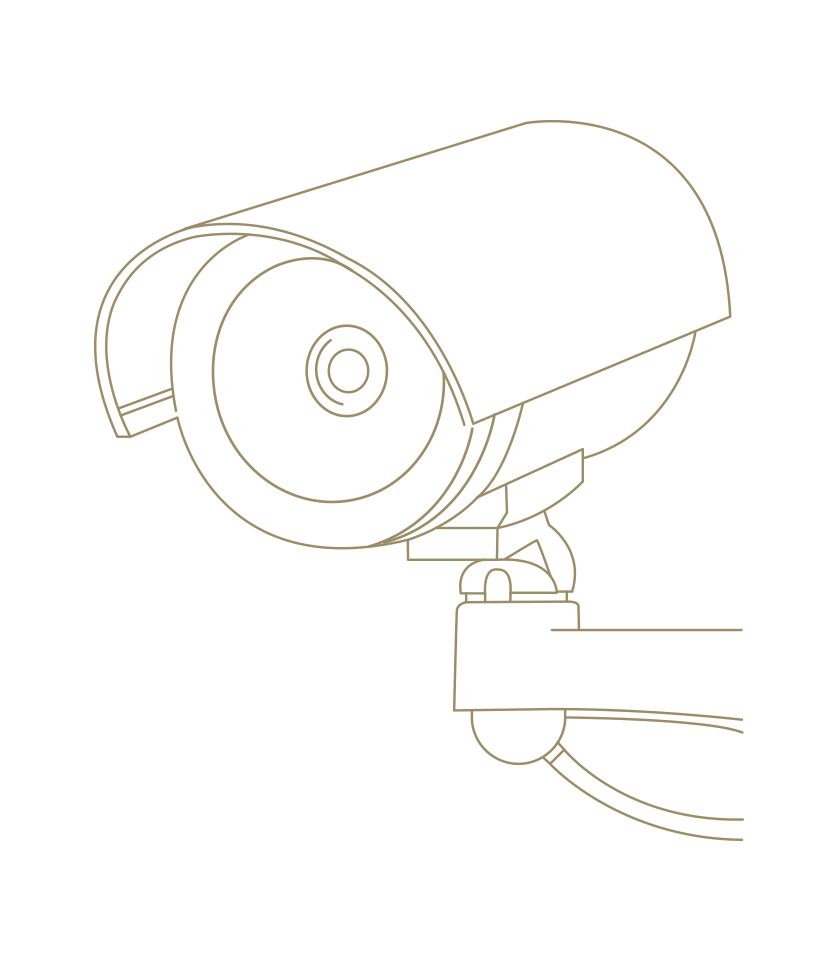
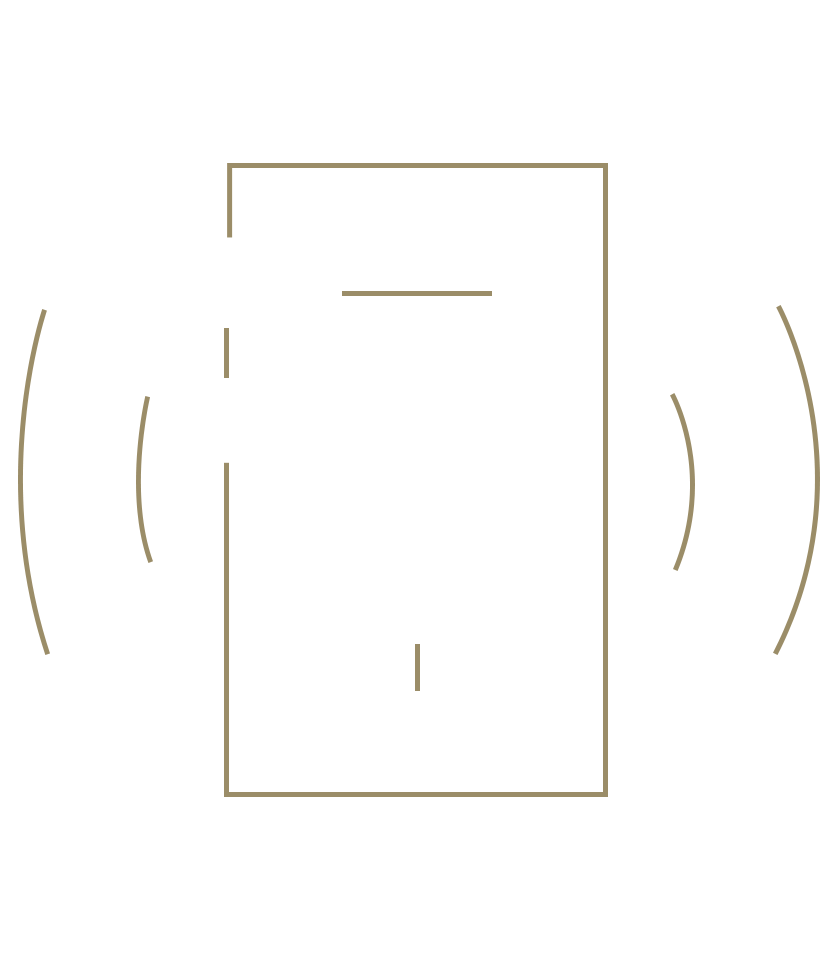
Corrige fichas de proyectos y filtros móviles

diff --git a/proyecto-ficha.js b/proyecto-ficha.js
@@ -378,10 +378,12 @@
       (p.comunesLead?'<div class="cb-desc"><p>'+p.comunesLead+'</p></div>':'');
     cg.parentElement.insertBefore(band, cg);
     const stB=document.createElement('style');
-    stB.textContent='.comunes-band{background:var(--dark);color:#fff;display:grid;grid-template-columns:1fr 1fr;gap:40px;align-items:center;padding:52px 44px;border-radius:18px;margin-top:10px}.comunes-band h2{font-family:\'Sora\';font-weight:800;font-size:clamp(24px,3vw,34px);letter-spacing:.02em;text-transform:uppercase;line-height:1.15;color:#fff}.comunes-band .cb-desc p{font-size:15.5px;line-height:1.7;color:rgba(255,255,255,.82)}@media(max-width:860px){.comunes-band{grid-template-columns:1fr;gap:18px;padding:34px 24px;text-align:center;border-radius:0;margin-left:-26px;margin-right:-26px;width:calc(100% + 52px)}}';
+    stB.textContent='.comunes-band{background:var(--dark);color:#fff;display:grid;grid-template-columns:1fr 1fr;gap:40px;align-items:center;padding:52px 44px;border-radius:18px;margin-top:10px}.comunes-band h2{font-family:\'Sora\';font-weight:800;font-size:clamp(24px,3vw,34px);letter-spacing:.02em;text-transform:uppercase;line-height:1.15;color:#fff}.comunes-band .cb-desc p{font-size:15.5px;line-height:1.7;color:rgba(255,255,255,.82)}@media(max-width:860px){.comunes-band{grid-template-columns:1fr;gap:18px;padding:34px 24px;text-align:center;border-radius:16px;margin-left:0;margin-right:0;width:100%}}';
     document.head.appendChild(stB);
   }
   cg.classList.add('comunes-accordion');
+  if(p.comunesCompactos) cg.classList.add('comunes-accordion--compact');
+  if(p.comunesGridMobile) cg.classList.add('comunes-accordion--grid');
   if(p.comunesSide && p.comunesSide.length){
     const CS = p.comunesSide;
     cg.classList.remove('comunes-accordion');
@@ -453,7 +455,7 @@
     const ub=document.getElementById('ubicacion');
     if(ub) ub.insertAdjacentHTML('beforebegin', secHtml);
     const stSg=document.createElement('style');
-    stSg.textContent='.sg-top{display:flex;align-items:center;justify-content:space-between;gap:20px;flex-wrap:wrap;border-bottom:1px solid var(--line);margin-top:26px}.sg-nav{display:flex;gap:30px;flex-wrap:wrap}.sg-tab{font-family:\'Sora\';font-weight:700;font-size:16px;color:var(--ink-3);padding:0 2px 14px;border-bottom:2px solid transparent;margin-bottom:-1px;transition:color .15s,border-color .15s}.sg-tab.on{color:var(--ink);border-color:var(--violet)}.sg-arrows{display:flex;gap:10px;padding-bottom:10px}.sg-arrow{width:38px;height:38px;border-radius:50%;border:1px solid var(--line);display:grid;place-items:center;color:var(--ink-2)}.sg-arrow:hover{border-color:var(--violet);color:var(--violet-d)}.sg-arrow .ico{width:17px;height:17px}.sg-stage{position:relative;margin-top:26px;background:var(--bg);border-radius:20px}.sg-panel{display:none;grid-template-columns:.55fr 1.45fr;gap:30px;align-items:center;padding:26px 32px}.sg-panel.on{display:grid}.sg-ic{display:grid;place-items:center}.sg-ic img{width:120px;height:120px;border-radius:50%;overflow:hidden;object-fit:cover;display:block;opacity:.9}.sg-tx h3{font-family:\'Sora\';font-weight:700;font-size:18px;margin-bottom:12px}.sg-tx ul{margin:0;padding-left:20px;display:flex;flex-direction:column;gap:7px}.sg-tx li{font-size:14.5px;color:var(--ink-2);line-height:1.55}@media(max-width:860px){.sg-panel{grid-template-columns:1fr;gap:18px;padding:22px 18px}.sg-ic img{width:90px;height:90px}.sg-nav{gap:16px}.sg-tab{font-size:14px}}';
+    stSg.textContent='.sg-top{display:flex;align-items:center;justify-content:space-between;gap:20px;flex-wrap:wrap;border-bottom:1px solid var(--line);margin-top:26px}.sg-nav{display:flex;gap:30px;flex-wrap:wrap}.sg-tab{font-family:\'Sora\';font-weight:700;font-size:16px;color:var(--ink-3);padding:0 2px 14px;border-bottom:2px solid transparent;margin-bottom:-1px;transition:color .15s,border-color .15s}.sg-tab.on{color:var(--ink);border-color:var(--violet)}.sg-arrows{display:flex;gap:10px;padding-bottom:10px}.sg-arrow{width:38px;height:38px;border-radius:50%;border:1px solid var(--line);display:grid;place-items:center;color:var(--ink-2)}.sg-arrow:hover{border-color:var(--violet);color:var(--violet-d)}.sg-arrow .ico{width:17px;height:17px}.sg-stage{position:relative;margin-top:26px;background:var(--bg);border-radius:20px}.sg-panel{display:none;grid-template-columns:.55fr 1.45fr;gap:30px;align-items:center;padding:26px 32px}.sg-panel.on{display:grid}.sg-ic{display:grid;place-items:center}.sg-ic img{width:120px;height:120px;object-fit:contain;display:block;opacity:.9}.sg-tx h3{font-family:\'Sora\';font-weight:700;font-size:18px;margin-bottom:12px}.sg-tx ul{margin:0;padding-left:20px;display:flex;flex-direction:column;gap:7px}.sg-tx li{font-size:14.5px;color:var(--ink-2);line-height:1.55}@media(max-width:860px){.sg-panel{grid-template-columns:1fr;gap:18px;padding:22px 18px}.sg-ic img{width:90px;height:90px}.sg-nav{gap:16px}.sg-tab{font-size:14px}}';
     document.head.appendChild(stSg);
     let sgCur=0;
     const sgTabs=[...document.querySelectorAll('.sg-tab')], sgPanels=[...document.querySelectorAll('.sg-panel')];
@@ -507,12 +509,26 @@
     }
   }
 
+  if(p.ubicSplit && p.ubicSplit.persona){
+    const ubic=document.querySelector('#ubicacion .wrap');
+    const mapEl=ubic && ubic.querySelector('.ubic-map');
+    if(ubic && mapEl && !ubic.querySelector('.ubic-person-strip')){
+      const strip=document.createElement('div');
+      strip.className='ubic-person-strip';
+      strip.innerHTML='<img src="'+p.ubicSplit.persona+'" alt="Mujer caminando" loading="lazy" decoding="async">';
+      mapEl.insertAdjacentElement('afterend',strip);
+      const stP=document.createElement('style');
+      stP.textContent='.ubic-person-strip{height:230px;background:#fff;border:1px solid var(--line);border-top:0;border-radius:0 0 18px 18px;overflow:hidden;display:flex;align-items:flex-end;justify-content:flex-end;padding-right:9%}.ubic-person-strip img{display:block;width:auto;height:260px;max-width:48%;object-fit:contain;object-position:bottom}@media(max-width:860px){.ubic-person-strip{height:150px;border-radius:0 0 14px 14px;padding-right:9%}.ubic-person-strip img{height:172px;max-width:55%}}';
+      document.head.appendChild(stP);
+    }
+  }
+
   if(p.cercaFotos && p.cercaFotos.length){
     const ubic=document.querySelector('#ubicacion .wrap');
     if(ubic){
-      ubic.insertAdjacentHTML('beforeend','<div class="cf-grid">'+p.cercaFotos.map(c=>'<figure class="cf">'+imageMarkup(c.src,c.t,'loading="lazy"')+'<figcaption>'+c.t+'</figcaption></figure>').join('')+'</div>');
+      ubic.insertAdjacentHTML('beforeend','<div class="cf-grid'+(p.cercaCompacta?' cf-grid--compact':'')+'">'+p.cercaFotos.map(c=>'<figure class="cf">'+imageMarkup(c.src,c.t,'loading="lazy"')+'<figcaption>'+c.t+'</figcaption></figure>').join('')+'</div>');
       const stCf=document.createElement('style');
-      stCf.textContent='.cf-grid{display:grid;grid-template-columns:repeat(4,1fr);gap:14px;margin-top:34px}.cf{position:relative;border-radius:14px;overflow:hidden;aspect-ratio:4/3;margin:0}.cf picture,.cf img{width:100%;height:100%;display:block}.cf img{object-fit:cover}.cf::after{content:"";position:absolute;inset:0;background:linear-gradient(transparent 50%,rgba(20,15,30,.75))}.cf figcaption{position:absolute;z-index:2;left:14px;right:14px;bottom:12px;color:#fff;font-family:Sora;font-weight:700;font-size:14px}@media(max-width:860px){.cf-grid{grid-template-columns:1fr 1fr;gap:10px}.cf figcaption{font-size:12.5px}}';
+      stCf.textContent='.cf-grid{display:grid;grid-template-columns:repeat(4,1fr);gap:14px;margin-top:34px}.cf{position:relative;border-radius:14px;overflow:hidden;aspect-ratio:4/3;margin:0}.cf picture,.cf img{width:100%;height:100%;display:block}.cf img{object-fit:cover}.cf::after{content:"";position:absolute;inset:0;background:linear-gradient(transparent 50%,rgba(20,15,30,.75))}.cf figcaption{position:absolute;z-index:2;left:14px;right:14px;bottom:12px;color:#fff;font-family:Sora;font-weight:700;font-size:14px}@media(max-width:860px){.cf-grid{grid-template-columns:1fr 1fr;gap:10px}.cf figcaption{font-size:12.5px}.cf-grid.cf-grid--compact{gap:8px;margin-top:24px;max-width:460px;margin-left:auto;margin-right:auto}.cf-grid.cf-grid--compact .cf{aspect-ratio:16/10;border-radius:12px}.cf-grid.cf-grid--compact .cf figcaption{left:10px;right:10px;bottom:8px;font-size:11.5px;line-height:1.25}}';
       document.head.appendChild(stCf);
     }
   }

diff --git a/data-proyectos-detalle.js b/data-proyectos-detalle.js
@@ -44,6 +44,7 @@ window.PROYECTO_FICHAS = {
     cerca: ["Metro Puente Cal y Canto", "Parque Forestal", "Mercado Central", "Universidades y servicios"],
     fotos: ["/assets/proy/best-site/best-site-1.jpg","/assets/proy/best-site/best-site-2.jpg","/assets/proy/best-site/best-site-3.jpg","/assets/proy/best-site/best-site-4.jpg","/assets/proy/best-site/best-site-5.jpg","/assets/proy/best-site/best-site-6.jpg","/assets/proy/best-site/best-site-7.jpg","/assets/proy/best-site/best-site-8.jpg"],
     matterport: "https://my.matterport.com/show/?m=Q53JqZ841uG",
+    comunesGridMobile: true,
     comunesFotos: [
       { src:"/assets/proy/best-site/best-site-comun-1.jpg", t:"Piscina" },
       { src:"/assets/proy/best-site/best-site-comun-2.jpg", t:"Fireplace" },
@@ -96,6 +97,7 @@ window.PROYECTO_FICHAS = {
     ],
     cerca: ["Metro Ñuble", "Metro Irarrázaval", "Autopista Central y Costanera Norte", "Estadio Nacional", "Parque San Eugenio", "Futuro Mall Vivo Ñuñoa"],
     fotos: ["/assets/proy/metropolitan-park-nunoa/metropolitan-1.jpg?v=metro-hq-20260922","/assets/proy/metropolitan-park-nunoa/metropolitan-2.jpg?v=metro-hq-20260922","/assets/proy/metropolitan-park-nunoa/metropolitan-3.jpg?v=metro-hq-20260922","/assets/proy/metropolitan-park-nunoa/metropolitan-4.jpg?v=metro-hq-20260922"],
+    comunesCompactos: true,
     comunesFotos: [
       { src:"/assets/proy/metropolitan-park-nunoa/metropolitan-comun-3.jpg?v=metro-hq-20260922", t:"Adventure Zone" },
       { src:"/assets/proy/metropolitan-park-nunoa/metropolitan-comun-4.jpg?v=metro-hq-20260922", t:"Cowork" },
@@ -404,6 +406,7 @@ window.PROYECTO_FICHAS = {
     ubicLead: "Residential Park Ñuñoa se encuentra en un nuevo polo de desarrollo residencial en Rodrigo de Araya con Av. Marathon: a menos de 15 minutos de la Autopista Central y la Autopista Vespucio, cercano a las estaciones de Metro Rodrigo de Araya y Estadio Nacional, al nuevo Parque del Estadio Nacional, supermercados, comercio y restaurantes.",
     mapaImg: "/assets/proy/rp-mapa.jpg",
     cerca: ["Metro Rodrigo de Araya", "Metro Estadio Nacional", "Autopista Central", "Autopista Vespucio", "Nuevo Parque del Estadio Nacional"],
+    cercaCompacta: true,
     cercaFotos: [
       { src:"/assets/proy/rp-u2.jpg", t:"Mall Vivo Ñuñoa" },
       { src:"/assets/proy/rp-u3.jpg", t:"33° Comisaría de Carabineros" },
@@ -455,7 +458,6 @@ window.PROYECTO_FICHAS = {
       }
     ],
     "ctas": [
-      "Pie hasta en 24 cuotas con tarjeta de crédito",
       "Asesoría hipotecaria"
     ],
     "lead": "Urban Life es un proyecto único en un sector residencial de Las Condes, con toda la conectividad y vida urbana que te gusta.",

diff --git a/proyectos/metropolitan-park-nunoa/index.html b/proyectos/metropolitan-park-nunoa/index.html
@@ -123,7 +123,7 @@ header.nav{position:sticky;top:0;z-index:70;background:rgba(20,15,30,.92);backdr
 .cacc-cap{position:absolute;z-index:2;left:0;right:0;bottom:0;padding:24px 22px;color:#fff;writing-mode:vertical-rl;transform:rotate(180deg);transition:writing-mode .2s}
 .cacc-cap b{font-family:'Sora';font-weight:700;font-size:17px;letter-spacing:.02em;white-space:nowrap}
 .cacc.on .cacc-cap{writing-mode:horizontal-tb;transform:none}
-@media(max-width:860px){.comunes-accordion{flex-direction:column;height:auto}.cacc{height:80px;transition:height .5s cubic-bezier(.4,0,.2,1)}.cacc.on{flex:none;height:300px}.cacc-cap{writing-mode:horizontal-tb;transform:none}}
+@media(max-width:860px){.comunes-accordion{flex-direction:column;height:auto}.cacc{flex:none;height:80px;transition:height .5s cubic-bezier(.4,0,.2,1)}.cacc.on{height:300px}.cacc-cap{writing-mode:horizontal-tb;transform:none}.comunes-accordion--compact{gap:8px;margin-top:26px}.comunes-accordion--compact .cacc{height:64px}.comunes-accordion--compact .cacc.on{height:210px}.comunes-accordion--compact .cacc-cap{padding:14px 16px}.comunes-accordion--grid{display:grid!important;grid-template-columns:repeat(2,minmax(0,1fr));gap:12px;margin-top:28px}.comunes-accordion--grid .cacc,.comunes-accordion--grid .cacc.on{height:auto;min-height:150px;aspect-ratio:1/1}.comunes-accordion--grid .cacc-cap{padding:12px}.comunes-accordion--grid .cacc-cap b{font-size:13px;white-space:normal}}
 
 /* UBICACION */
 .near{display:flex;flex-wrap:wrap;gap:10px;justify-content:center;margin-top:30px}
@@ -345,8 +345,8 @@ img,iframe,video{max-width:100%}
 </div>
 
 <script defer src="https://unpkg.com/lucide@0.460.0/dist/umd/lucide.min.js"></script>
-<script>window.FICHA_SLUG="metropolitan-park-nunoa";</script><script defer src="/data-proyectos-detalle.js?v=projects-20260922"></script>
-<script defer src="/proyecto-ficha.js?v=projects-20260922"></script>
+<script>window.FICHA_SLUG="metropolitan-park-nunoa";</script><script defer src="/data-proyectos-detalle.js?v=layout-20260923"></script>
+<script defer src="/proyecto-ficha.js?v=layout-20260923"></script>
 <script>
 (function(){
   document.querySelectorAll('[data-navdd]').forEach(function(dd){

diff --git a/proyectos/all-nunoa-2/index.html b/proyectos/all-nunoa-2/index.html
@@ -123,7 +123,7 @@ header.nav{position:sticky;top:0;z-index:70;background:rgba(20,15,30,.92);backdr
 .cacc-cap{position:absolute;z-index:2;left:0;right:0;bottom:0;padding:24px 22px;color:#fff;writing-mode:vertical-rl;transform:rotate(180deg);transition:writing-mode .2s}
 .cacc-cap b{font-family:'Sora';font-weight:700;font-size:17px;letter-spacing:.02em;white-space:nowrap}
 .cacc.on .cacc-cap{writing-mode:horizontal-tb;transform:none}
-@media(max-width:860px){.comunes-accordion{flex-direction:column;height:auto}.cacc{height:80px;transition:height .5s cubic-bezier(.4,0,.2,1)}.cacc.on{flex:none;height:300px}.cacc-cap{writing-mode:horizontal-tb;transform:none}}
+@media(max-width:860px){.comunes-accordion{flex-direction:column;height:auto}.cacc{flex:none;height:80px;transition:height .5s cubic-bezier(.4,0,.2,1)}.cacc.on{height:300px}.cacc-cap{writing-mode:horizontal-tb;transform:none}.comunes-accordion--compact{gap:8px;margin-top:26px}.comunes-accordion--compact .cacc{height:64px}.comunes-accordion--compact .cacc.on{height:210px}.comunes-accordion--compact .cacc-cap{padding:14px 16px}.comunes-accordion--grid{display:grid!important;grid-template-columns:repeat(2,minmax(0,1fr));gap:12px;margin-top:28px}.comunes-accordion--grid .cacc,.comunes-accordion--grid .cacc.on{height:auto;min-height:150px;aspect-ratio:1/1}.comunes-accordion--grid .cacc-cap{padding:12px}.comunes-accordion--grid .cacc-cap b{font-size:13px;white-space:normal}}
 
 /* UBICACION */
 .near{display:flex;flex-wrap:wrap;gap:10px;justify-content:center;margin-top:30px}
@@ -345,8 +345,8 @@ img,iframe,video{max-width:100%}
 </div>
 
 <script defer src="https://unpkg.com/lucide@0.460.0/dist/umd/lucide.min.js"></script>
-<script>window.FICHA_SLUG="all-nunoa-2";</script><script defer src="/data-proyectos-detalle.js?v=projects-20260922"></script>
-<script defer src="/proyecto-ficha.js?v=projects-20260922"></script>
+<script>window.FICHA_SLUG="all-nunoa-2";</script><script defer src="/data-proyectos-detalle.js?v=layout-20260923"></script>
+<script defer src="/proyecto-ficha.js?v=layout-20260923"></script>
 <script>
 (function(){
   document.querySelectorAll('[data-navdd]').forEach(function(dd){

diff --git a/proyectos/best-site/index.html b/proyectos/best-site/index.html
@@ -123,7 +123,7 @@ header.nav{position:sticky;top:0;z-index:70;background:rgba(20,15,30,.92);backdr
 .cacc-cap{position:absolute;z-index:2;left:0;right:0;bottom:0;padding:24px 22px;color:#fff;writing-mode:vertical-rl;transform:rotate(180deg);transition:writing-mode .2s}
 .cacc-cap b{font-family:'Sora';font-weight:700;font-size:17px;letter-spacing:.02em;white-space:nowrap}
 .cacc.on .cacc-cap{writing-mode:horizontal-tb;transform:none}
-@media(max-width:860px){.comunes-accordion{flex-direction:column;height:auto}.cacc{height:80px;transition:height .5s cubic-bezier(.4,0,.2,1)}.cacc.on{flex:none;height:300px}.cacc-cap{writing-mode:horizontal-tb;transform:none}}
+@media(max-width:860px){.comunes-accordion{flex-direction:column;height:auto}.cacc{flex:none;height:80px;transition:height .5s cubic-bezier(.4,0,.2,1)}.cacc.on{height:300px}.cacc-cap{writing-mode:horizontal-tb;transform:none}.comunes-accordion--compact{gap:8px;margin-top:26px}.comunes-accordion--compact .cacc{height:64px}.comunes-accordion--compact .cacc.on{height:210px}.comunes-accordion--compact .cacc-cap{padding:14px 16px}.comunes-accordion--grid{display:grid!important;grid-template-columns:repeat(2,minmax(0,1fr));gap:12px;margin-top:28px}.comunes-accordion--grid .cacc,.comunes-accordion--grid .cacc.on{height:auto;min-height:150px;aspect-ratio:1/1}.comunes-accordion--grid .cacc-cap{padding:12px}.comunes-accordion--grid .cacc-cap b{font-size:13px;white-space:normal}}
 
 /* UBICACION */
 .near{display:flex;flex-wrap:wrap;gap:10px;justify-content:center;margin-top:30px}
@@ -345,8 +345,8 @@ img,iframe,video{max-width:100%}
 </div>
 
 <script defer src="https://unpkg.com/lucide@0.460.0/dist/umd/lucide.min.js"></script>
-<script>window.FICHA_SLUG="best-site";</script><script defer src="/data-proyectos-detalle.js?v=projects-20260922"></script>
-<script defer src="/proyecto-ficha.js?v=projects-20260922"></script>
+<script>window.FICHA_SLUG="best-site";</script><script defer src="/data-proyectos-detalle.js?v=layout-20260923"></script>
+<script defer src="/proyecto-ficha.js?v=layout-20260923"></script>
 <script>
 (function(){
   document.querySelectorAll('[data-navdd]').forEach(function(dd){

diff --git a/proyectos/smart-too/index.html b/proyectos/smart-too/index.html
@@ -123,7 +123,7 @@ header.nav{position:sticky;top:0;z-index:70;background:rgba(20,15,30,.92);backdr
 .cacc-cap{position:absolute;z-index:2;left:0;right:0;bottom:0;padding:24px 22px;color:#fff;writing-mode:vertical-rl;transform:rotate(180deg);transition:writing-mode .2s}
 .cacc-cap b{font-family:'Sora';font-weight:700;font-size:17px;letter-spacing:.02em;white-space:nowrap}
 .cacc.on .cacc-cap{writing-mode:horizontal-tb;transform:none}
-@media(max-width:860px){.comunes-accordion{flex-direction:column;height:auto}.cacc{height:80px;transition:height .5s cubic-bezier(.4,0,.2,1)}.cacc.on{flex:none;height:300px}.cacc-cap{writing-mode:horizontal-tb;transform:none}}
+@media(max-width:860px){.comunes-accordion{flex-direction:column;height:auto}.cacc{flex:none;height:80px;transition:height .5s cubic-bezier(.4,0,.2,1)}.cacc.on{height:300px}.cacc-cap{writing-mode:horizontal-tb;transform:none}.comunes-accordion--compact{gap:8px;margin-top:26px}.comunes-accordion--compact .cacc{height:64px}.comunes-accordion--compact .cacc.on{height:210px}.comunes-accordion--compact .cacc-cap{padding:14px 16px}.comunes-accordion--grid{display:grid!important;grid-template-columns:repeat(2,minmax(0,1fr));gap:12px;margin-top:28px}.comunes-accordion--grid .cacc,.comunes-accordion--grid .cacc.on{height:auto;min-height:150px;aspect-ratio:1/1}.comunes-accordion--grid .cacc-cap{padding:12px}.comunes-accordion--grid .cacc-cap b{font-size:13px;white-space:normal}}
 
 /* UBICACION */
 .near{display:flex;flex-wrap:wrap;gap:10px;justify-content:center;margin-top:30px}
@@ -345,8 +345,8 @@ img,iframe,video{max-width:100%}
 </div>
 
 <script defer src="https://unpkg.com/lucide@0.460.0/dist/umd/lucide.min.js"></script>
-<script>window.FICHA_SLUG="smart-too";</script><script defer src="/data-proyectos-detalle.js?v=projects-20260922"></script>
-<script defer src="/proyecto-ficha.js?v=projects-20260922"></script>
+<script>window.FICHA_SLUG="smart-too";</script><script defer src="/data-proyectos-detalle.js?v=layout-20260923"></script>
+<script defer src="/proyecto-ficha.js?v=layout-20260923"></script>
 <script>
 (function(){
   document.querySelectorAll('[data-navdd]').forEach(function(dd){

diff --git a/proyecto.html b/proyecto.html
@@ -123,7 +123,7 @@ header.nav{position:sticky;top:0;z-index:70;background:rgba(20,15,30,.92);backdr
 .cacc-cap{position:absolute;z-index:2;left:0;right:0;bottom:0;padding:24px 22px;color:#fff;writing-mode:vertical-rl;transform:rotate(180deg);transition:writing-mode .2s}
 .cacc-cap b{font-family:'Sora';font-weight:700;font-size:17px;letter-spacing:.02em;white-space:nowrap}
 .cacc.on .cacc-cap{writing-mode:horizontal-tb;transform:none}
-@media(max-width:860px){.comunes-accordion{flex-direction:column;height:auto}.cacc{height:80px;transition:height .5s cubic-bezier(.4,0,.2,1)}.cacc.on{flex:none;height:300px}.cacc-cap{writing-mode:horizontal-tb;transform:none}}
+@media(max-width:860px){.comunes-accordion{flex-direction:column;height:auto}.cacc{flex:none;height:80px;transition:height .5s cubic-bezier(.4,0,.2,1)}.cacc.on{height:300px}.cacc-cap{writing-mode:horizontal-tb;transform:none}.comunes-accordion--compact{gap:8px;margin-top:26px}.comunes-accordion--compact .cacc{height:64px}.comunes-accordion--compact .cacc.on{height:210px}.comunes-accordion--compact .cacc-cap{padding:14px 16px}.comunes-accordion--grid{display:grid!important;grid-template-columns:repeat(2,minmax(0,1fr));gap:12px;margin-top:28px}.comunes-accordion--grid .cacc,.comunes-accordion--grid .cacc.on{height:auto;min-height:150px;aspect-ratio:1/1}.comunes-accordion--grid .cacc-cap{padding:12px}.comunes-accordion--grid .cacc-cap b{font-size:13px;white-space:normal}}
 
 /* UBICACION */
 .near{display:flex;flex-wrap:wrap;gap:10px;justify-content:center;margin-top:30px}
@@ -345,8 +345,8 @@ img,iframe,video{max-width:100%}
 </div>
 
 <script defer src="https://unpkg.com/lucide@0.460.0/dist/umd/lucide.min.js"></script>
-<script defer src="/data-proyectos-detalle.js?v=projects-20260922"></script>
-<script defer src="/proyecto-ficha.js?v=projects-20260922"></script>
+<script defer src="/data-proyectos-detalle.js?v=layout-20260923"></script>
+<script defer src="/proyecto-ficha.js?v=layout-20260923"></script>
 <script>
 (function(){
   document.querySelectorAll('[data-navdd]').forEach(function(dd){

diff --git a/proyectos/index.html b/proyectos/index.html
@@ -20,7 +20,7 @@
 }
 *{box-sizing:border-box;margin:0;padding:0}
 html{scroll-behavior:smooth}
-body{font-family:'Hanken Grotesk',system-ui,sans-serif;background:var(--bg);color:var(--ink);line-height:1.5;-webkit-font-smoothing:antialiased;font-size:16px;overflow-x:hidden}
+body{font-family:'Hanken Grotesk',system-ui,sans-serif;background:var(--bg);color:var(--ink);line-height:1.5;-webkit-font-smoothing:antialiased;font-size:16px}
 img{display:block;max-width:100%}
 a{color:inherit;text-decoration:none}
 button{font-family:inherit;cursor:pointer;border:none;background:none}
@@ -215,6 +215,8 @@ footer{background:var(--dark);color:#cfc9da;padding:60px 0 32px}
   </div>
 </div>
 
+<!-- CATÁLOGO: el límite de esta sección detiene la barra fija al finalizar la lista -->
+<section class="projects-catalog" aria-label="Listado de proyectos">
 <!-- TOOLBAR -->
 <div class="toolbar">
   <div class="toolbar-in">
@@ -244,6 +246,7 @@ footer{background:var(--dark);color:#cfc9da;padding:60px 0 32px}
 
 <!-- GRID -->
 <div class="grid" id="grid"></div>
+</section>
 
 <!-- ALLY -->
 <section class="ally">
